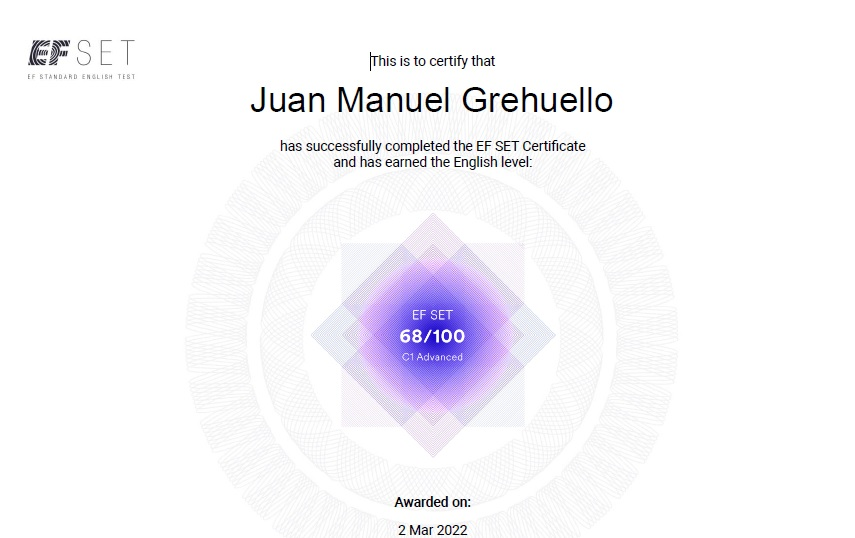
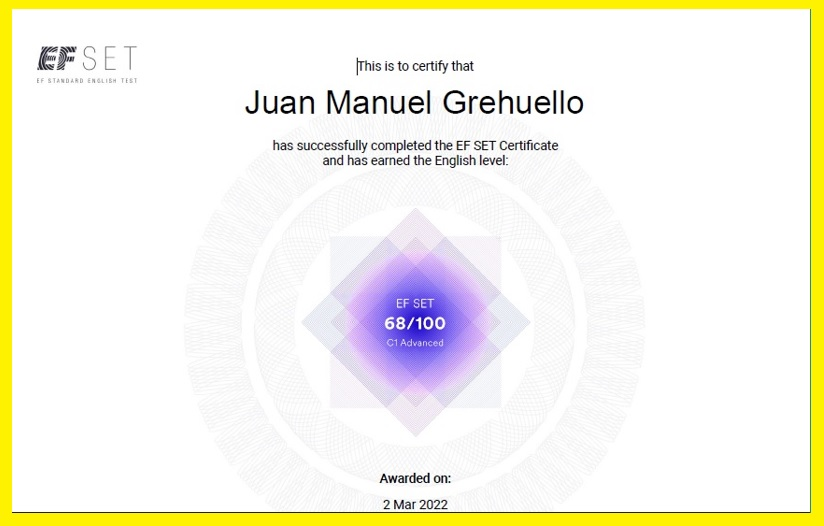
certificaciones completas

diff --git a/pages/certification.js b/pages/certification.js
@@ -3,14 +3,15 @@ import { certificates } from "../profile";
 
 
 const CertificationCard = ({ certification }) => (
-    <div className="blog col-md-4">
-        <div className="card">
+    <div className="blog col-md-12">
+        <div className="card col-md-4 offset-md-4">
             <div className="overflow">
-                <img src={certification.img} className="card-img-top" alt=""/>
+                <img src={certification.img} className="card-img-center" alt=""/>
             </div>
-            <div className="card-body">
+            <div className="titleCer card-body">
                 <h1>{certification.name}</h1>
-                <p>{certification.givenBy}</p>
+                <h4>{certification.givenBy}</h4>
+                <h6>{certification.degree}</h6>
             </div>
         </div>
     </div>
@@ -19,9 +20,9 @@ const CertificationCard = ({ certification }) => (
 
 const certificate = () => {
     return (
-        <Layout footer={false}>
-            <h1 className="title2 text-center text-dark">My Blog</h1>
-            <div className="rowBlog text-light">
+        <Layout>
+            <h1 className="title2 text-center text-dark">Certifications</h1>
+            <div className="rowCertification text-light">
                 { certificates.map( (certification , i) => (
                     <CertificationCard certification={certification} key={i} />
                 ))}

diff --git a/global.css b/global.css
@@ -69,6 +69,30 @@ div#__next > div {
     cursor: pointer;
 }
 
+.rowCertification{
+    margin-left: 0px;
+    margin-right: 0px;   
+}
+
+.titleCer{
+    font-family: 'Trebuchet MS', 'Lucida Sans Unicode', 'Lucida Grande', 'Lucida Sans', Arial, sans-serif;
+    text-align: center;
+    font-size: x-large;
+    color: white;
+}
+
+.rowCertification .card-img-center {
+    margin-top: 10px;
+    width: 100%;
+    transform: scale(1);
+    transition: all 0.8s ease-in-out;
+}
+
+.rowCertification .card-img-center:hover {
+    cursor: pointer;
+    transform: scale(1.5);
+}
+
 .title{
     font-family: Impact, Haettenschweiler, 'Arial Narrow Bold', sans-serif;
     letter-spacing: 1px;
